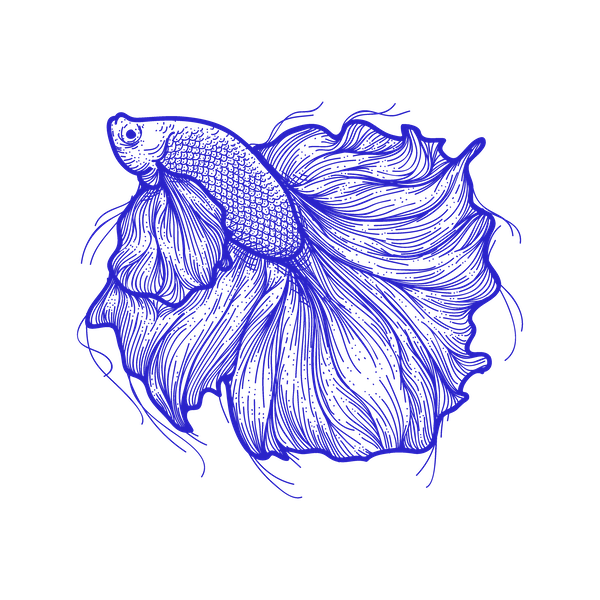
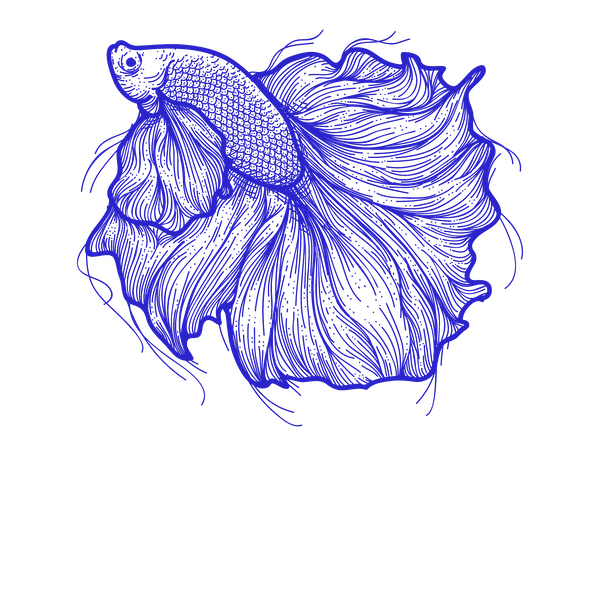
working stretchable image atop fixed image

Changed region(s): [[0.12, 0.06, 0.87, 0.81]]

diff --git a/lingualearn/script.js b/lingualearn/script.js
@@ -15,6 +15,7 @@ let minY = -5;
 let maxY = -60;
 let plotWidth = 800; // copied from style.css
 let plotHeight = 100; // copied from style.css
+let imageSize = 400;
 
 // Words
 const words = [
@@ -70,6 +71,24 @@ function extractFeatures(dataArray) {
     return features
 }
 
+// Function to initialize the plot with target and marker
+function initializePlot(target_x, target_y, moving_x, moving_y) {
+    let plotArea = document.getElementById('plot-area');
+
+    // Clear existing elements in the plot area
+    while (plotArea.firstChild) {
+        plotArea.removeChild(plotArea.firstChild);
+    }
+    drawGrid();
+    addAxisLabels();
+
+    let targetCircle = createCircle('target-circle', 'target circle', { x: target_x, y: target_y });
+    let movingCircle = createCircle('moving-circle', 'moving circle', { x: moving_x, y: moving_y });
+
+    plotArea.appendChild(targetCircle);
+    plotArea.appendChild(movingCircle);
+}
+
 // Function to create a circle
 function createCircle(id, className, position) {
     let circle = document.createElement('div');
@@ -82,22 +101,25 @@ function createCircle(id, className, position) {
     return circle;
 }
 
-// Function to initialize the plot with target and marker
-function initializePlot(target_x, target_y, marker_x, marker_y) {
-    let plotArea = document.getElementById('plot-area');
+// Function to display the next word
+function displayNextWord() {
+    currentWordIndex = (currentWordIndex + 1) % words.length;
+    //let currentWordIndex = Math.floor(Math.random() * words.length);
+    let word = words[currentWordIndex].word;
+    let formattedWord = words[currentWordIndex].format;
+    document.getElementById('word-display').innerHTML = formattedWord;
+    
+    // Update the image source
+    let fixedImage = document.getElementById('word-image-fixed'); // Get the fixed image element
+    let stretchableImage = document.getElementById('word-image-stretch'); // Get the stretchable image element
+    fixedImage.style.display = 'block'; // Set the display property to make it visible
+    stretchableImage.style.display = 'block'; // Set the display property to make it visible
+    fixedImage.src = stretchableImage.src = 'assets/pictures/' + word + '.png'; // Set the source of the image
 
-    // Clear existing elements in the plot area
-    while (plotArea.firstChild) {
-        plotArea.removeChild(plotArea.firstChild);
-    }
-    drawGrid();
-    addAxisLabels();
-
-    let targetCircle = createCircle('target-circle', 'circle', { x: target_x, y: target_y });
-    let redMarker = createCircle('moving-circle', 'circle marker', { x: marker_x, y: marker_y });
-
-    plotArea.appendChild(targetCircle);
-    plotArea.appendChild(redMarker);
+    // Ensure both images start with the same size
+    fixedImage.style.width = stretchableImage.style.width = imageSize + 'px';
+    fixedImage.style.height = stretchableImage.style.height = imageSize + 'px';
+    return words[currentWordIndex].position; // Return the position of the new word
 }
 
 // Function to update the marker position
@@ -108,47 +130,50 @@ function updateMarkerPosition(features) {
     let normalizedX = normalizeValue(features.x, minX, maxX, 0, plotWidth);
     let normalizedY = normalizeValue(features.y, minY, maxY, 0, plotHeight);
     //console.log("normalizedX: ", normalizedX)
-    console.log("normalizedY: ", normalizedY)
+    //console.log("normalizedY: ", normalizedY)
 
     // Update marker position
     let marker = document.getElementById('moving-circle');
     marker.style.left = normalizedX + 'px';
     marker.style.top = normalizedY + 'px';
 
-     // Update stretching image size based on marker position
-     let stretchableImage = document.getElementById('word-image-stretch');
-     stretchableImage.style.width = calculateWidthBasedOnMarker(features.x, plotWidth);
-     stretchableImage.style.height = calculateHeightBasedOnMarker(features.y, plotHeight);
-}
+    // Get target position
+    let target = document.getElementById('target-circle');
+    let targetX = parseInt(target.style.left, 10);
+    let targetY = parseInt(target.style.top, 10);
 
+    // Update stretching image size based on marker position
+    let stretchableImage = document.getElementById('word-image-stretch');
+    stretchableImage.style.width = calculateImageWidth(normalizedX, targetX, imageSize, plotWidth) + 'px';
+    stretchableImage.style.height = calculateImageHeight(normalizedY, targetY, imageSize, plotHeight) + 'px';
+}
 function normalizeValue(value, minInput, maxInput, minOutput, maxOutput) {
     // Normalize a value from one range to another
     return ((value - minInput) / (maxInput - minInput)) * (maxOutput - minOutput) + minOutput;
 }
 
-function calculateWidthBasedOnMarker(markerX, plotWidth) {
-    // Assuming markerX varies from 0 to plotWidth
-    // Initial width is 50% of plotWidth, adjust according to your setup
-    let initialWidth = plotWidth / 2; 
-    let stretchFactor = markerX / plotWidth; // Calculate the stretch factor based on marker position
+function calculateImageWidth(markerX, targetX, plotWidth) {
+    let deltaX = markerX - targetX;
+    let initialWidth = imageSize;
+    let stretchFactor = Math.abs(deltaX) / (plotWidth / 2); // Factor by which to stretch
 
-    return initialWidth + (plotWidth - initialWidth) * stretchFactor + 'px';
+    // Expand or contract based on marker position relative to target
+    return deltaX > 0 ? initialWidth * (1 + stretchFactor) : initialWidth * (1 - stretchFactor);
 }
 
-function calculateHeightBasedOnMarker(markerY, plotHeight) {
-    // Assuming markerY varies from 0 to plotHeight
-    // Initial height is full height of the container, adjust according to your setup
-    let initialHeight = plotHeight; 
-    let stretchFactor = markerY / plotHeight; // Calculate the stretch factor based on marker position
+function calculateImageHeight(markerY, targetY, plotHeight) {
+    let deltaY = markerY - targetY;
+    let initialHeight = imageSize;
+    let stretchFactor = Math.abs(deltaY) / (plotHeight / 2); // Factor by which to stretch
 
-    return initialHeight * stretchFactor + 'px';
+    // Expand or contract based on marker position relative to target
+    return deltaY > 0 ? initialHeight * (1 + stretchFactor) : initialHeight * (1 - stretchFactor);
 }
 
 // Define a function to calculate the distance between two points
 function calculateDistance(pos1, pos2) {
     return Math.sqrt(Math.pow(pos1.x - pos2.x, 2) + Math.pow(pos1.y - pos2.y, 2));
 }
-
 // Modify the checkProximity function to include pausing and message display
 function checkProximity() {
     let marker = document.getElementById('moving-circle');
@@ -157,7 +182,6 @@ function checkProximity() {
     let targetPos = { x: parseInt(target.style.left, 10), y: parseInt(target.style.top, 10) };
     let distance = calculateDistance(markerPos, targetPos);
     let proximityRadius = 20; // Radius
-
     if (distance <= proximityRadius) {
         celebrateSuccess();
     }
@@ -174,7 +198,6 @@ function celebrateSuccess() {
         processAudio();
     }, 1000); // Delay in ms
 }
-
 // Function to display a celebratory message
 function displayCelebratoryMessage() {
     // Play a sound
@@ -200,33 +223,12 @@ function displayCelebratoryMessage() {
      setTimeout(() => {
          confettiContainer.remove();
      }, 3000);
- }
-
-// Function to display the next word
-function displayNextWord() {
-    currentWordIndex = (currentWordIndex + 1) % words.length;
-    //let currentWordIndex = Math.floor(Math.random() * words.length);
-    let word = words[currentWordIndex].word;
-    let formattedWord = words[currentWordIndex].format;
-    document.getElementById('word-display').innerHTML = formattedWord;
-    
-    // Update the image source
-    let fixedImage = document.getElementById('word-image-fixed'); // Get the fixed image element
-    let stretchableImage = document.getElementById('word-image-stretch'); // Get the stretchable image element
-    fixedImage.style.display = 'block'; // Set the display property to make it visible
-    fixedImage.src = stretchableImage.src = 'assets/pictures/' + word + '.png'; // Set the source of the image
-
-    // Ensure both images start with the same size
-    fixedImage.style.width = stretchableImage.style.width = '50%';
-    fixedImage.style.height = stretchableImage.style.height = '100%';
-    
-    return words[currentWordIndex].position; // Return the position of the new word
 }
 
 // Function to draw a grid
 function drawGrid() {
     let plotArea = document.getElementById('plot-area');
-    let numberOfVerticalLines = 16;
+    let numberOfVerticalLines = 32;
     let numberOfHorizontalLines = 7;
     let xSpacing = plotWidth / numberOfVerticalLines;
     let ySpacing = plotHeight / numberOfHorizontalLines;

diff --git a/lingualearn/style.css b/lingualearn/style.css
@@ -105,7 +105,7 @@ body {
 }
 #word-image-fixed {
     max-width: 100%;
-    max-height: 50%;
+    max-height: 100%;
 }
 
 
